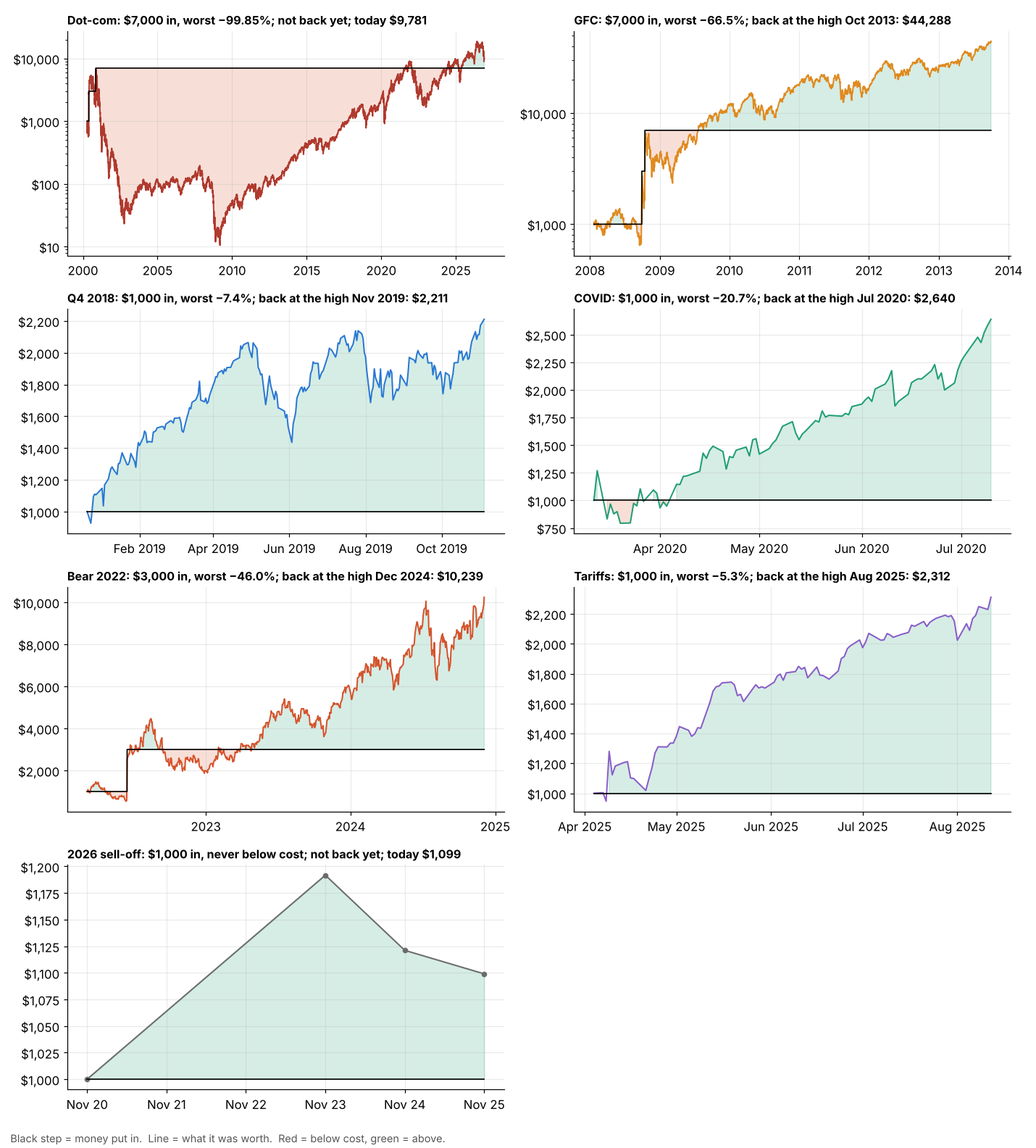
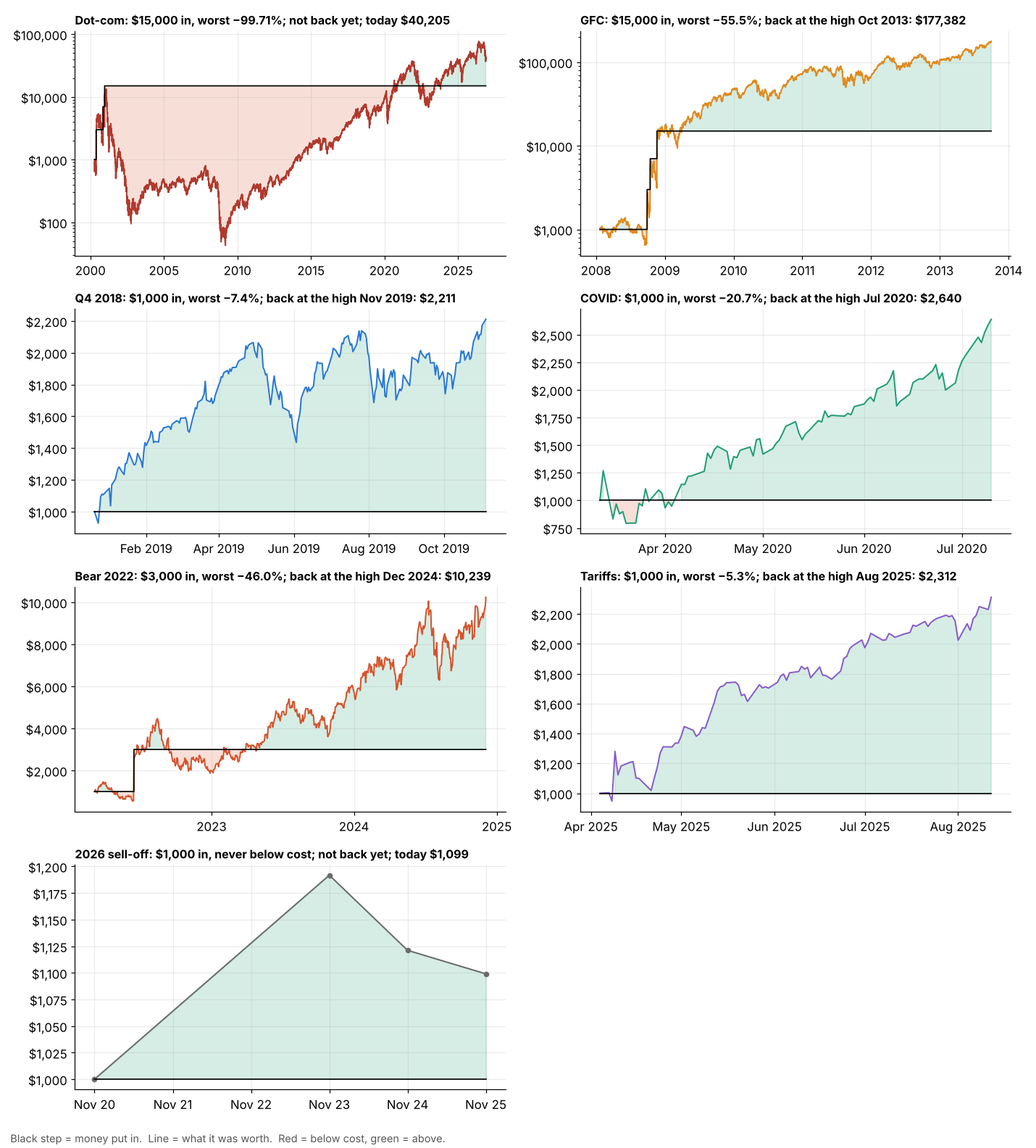
Halvings pages: TQQQ buys up to four times, QQQ up to two
The number of buys is set per fund (BUYS): $1k at -50%, then twice the money at
each new halving. TQQQ adds $8k at -93.75% (up to $15k per sell-off); QQQ, whose
deepest fall was -83%, stops at $1k/$2k. Text, tables and charts follow the count.

Claude-Session: https://claude.ai/code/session_01NtsLeKF1WZbb5xzyTmF1EQ

diff --git a/_code/halving_strategy.py b/_code/halving_strategy.py
@@ -1,8 +1,9 @@
 """Buying the halvings: QQQ and TQQQ detail pages linked from the market snapshot table.
 
-Rule: when a fund closes 50% below its all-time high, buy $1,000. If it halves again
-(-75% from the high), buy $2,000. If it halves a third time (-87.5%), buy $4,000.
-Then hold until the fund closes back at that all-time high (at most $7,000 in).
+Rule: when a fund closes 50% below its all-time high, buy $1,000; each time it halves again,
+buy twice as much ($2,000 at -75%, $4,000 at -87.5%, $8,000 at -93.75%). Then hold until the
+fund closes back at that all-time high. BUYS sets how many halvings each page uses: QQQ never
+fell past -83%, so its page stops at two buys; TQQQ's goes to four.
 
 Writes halving-qqq.md, halving-tqqq.md and their figures in assets/images/halving/.
 Run from the repo root:  python _code/halving_strategy.py
@@ -24,13 +25,32 @@ import matplotlib.ticker as mt  # noqa: E402
 
 ROOT = Path(__file__).resolve().parent.parent
 IMG = ROOT / "assets" / "images" / "halving"
-LEGS = ((0.5, 1000), (0.75, 2000), (0.875, 4000))  # (fall from the high, dollars)
+BUYS = {"QQQ": 2, "TQQQ": 4}  # how many halvings the rule buys on, per fund
 RESET = "2003-01-01"  # a second investor who starts watching after the dot-com bust
-# Rule variants compared on each page (same trigger levels, fewer legs, or all the money at once)
-VARIANTS = [("1 buy", "$1k at -50% only", ((0.5, 1000),)),
-            ("2 buys", "$1k at -50%, $2k at -75%", ((0.5, 1000), (0.75, 2000))),
-            ("3 buys (the rule)", "$1k / $2k / $4k at -50 / -75 / -87.5%", LEGS),
-            ("Lump sum", "all $7k at -50%", ((0.5, 7000),))]
+ORDINAL = {2: "again", 3: "a third time", 4: "a fourth time", 5: "a fifth time"}
+COUNT = {1: "one", 2: "two", 3: "three", 4: "four", 5: "five"}
+FRACTION = {2: "a quarter", 3: "an eighth", 4: "a sixteenth", 5: "a thirty-second"}
+
+
+def legs_for(n):
+    """((fall from the high, dollars), ...): $1k at -50%, then twice the money at each new halving."""
+    return tuple((1 - 0.5 ** k, 1000 * 2 ** (k - 1)) for k in range(1, n + 1))
+
+
+def lvl(f):
+    """-50%, -75%, -87.5%, -93.75%"""
+    return "−" + f"{f * 100:.2f}".rstrip("0").rstrip(".") + "%"
+
+
+def variants_for(n):
+    """Rule variants compared on a page: the same levels with fewer buys, and all the money at -50%."""
+    out = [(f"{k} buy{'s' if k > 1 else ''}" + (" (the rule)" if k == n else ""),
+            " · ".join(f"${a // 1000}k at {lvl(f)}" for f, a in legs_for(k)), legs_for(k))
+           for k in range(1, n + 1)]
+    total = sum(a for _, a in legs_for(n))
+    return out + [("Lump sum", f"all ${total // 1000}k at −50%", ((0.5, total),))]
+
+
 # Approximate yearly average 3-month T-bill rate (%), for the cost of TQQQ's 3x leverage before 2010
 TBILL = {1999: 4.6, 2000: 5.8, 2001: 3.4, 2002: 1.6, 2003: 1.0, 2004: 1.4, 2005: 3.2, 2006: 4.7,
          2007: 4.4, 2008: 1.4, 2009: 0.15, 2010: 0.14, 2011: 0.05, 2012: 0.09, 2013: 0.06, 2014: 0.03,
@@ -41,7 +61,7 @@ FEE = 0.0095  # TQQQ expense ratio
 NAMES = {1999: "Dot-com", 2000: "Dot-com", 2007: "GFC", 2018: "Q4 2018", 2020: "COVID",
          2021: "Bear 2022", 2024: "Tariffs", 2025: "Tariffs"}
 COLORS = ["#b03a2e", "#e08a1e", "#2a78d4", "#1f9e74", "#d6532c", "#8a5cc9", "#6b6b6b", "#3b8ea5"]
-LEG_COLORS = ["#e3a23b", "#d6532c", "#8e1f1f"]
+LEG_COLORS = ["#e3a23b", "#d6532c", "#8e1f1f", "#4a0d0d"]
 
 plt.rcParams.update({"axes.spines.top": False, "axes.spines.right": False, "axes.grid": True,
                      "grid.alpha": .25, "font.size": 11, "text.parse_math": False,
@@ -82,7 +102,7 @@ def synthetic_tqqq(qqq, tqqq):
     return out, spread, gap
 
 
-def run(px, legs=LEGS):
+def run(px, legs):
     """Every episode: from the first close at or below -50% of the all-time high to the first
     close back at that high (or today). Buys at the close of the first day each level is hit."""
     ath = px.cummax()
@@ -124,7 +144,7 @@ def run(px, legs=LEGS):
     return res
 
 
-def episodes(px, legs=LEGS):
+def episodes(px, legs):
     """The dot-com episode for someone watching since 1999, then every episode for someone who
     started in 2003 (a 1999 holder would still be measuring from the March 2000 high)."""
     first = [e for e in run(px, legs) if e["peak_day"] < pd.Timestamp(RESET)]
@@ -158,7 +178,7 @@ def d(day):
 
 
 # ---------------------------------------------------------------- figures
-def fig_history(px, eps, symbol, path, synth_end=None):
+def fig_history(px, eps, symbol, path, legs, synth_end=None):
     fig, ax = plt.subplots(figsize=(13, 6.2))
     if synth_end is not None:
         ax.semilogy(px[:synth_end].index, px[:synth_end], color="#b03a2e", lw=1,
@@ -169,13 +189,13 @@ def fig_history(px, eps, symbol, path, synth_end=None):
     for seg, first in ((px[:RESET], True), (px[RESET:], False)):
         a = seg.cummax()
         ax.semilogy(a.index, a, color="#999", ls="--", lw=.8, label="All-time high" if first else None)
-        for (f, amt), c in zip(LEGS, LEG_COLORS):
+        for (f, amt), c in zip(legs, LEG_COLORS):
             ax.semilogy(a.index, a * (1 - f), color=c, ls=":", lw=.9,
-                        label=f"−{f:.1%} → buy ${amt:,}".replace(".0%", "%") if first else None)
+                        label=f"{lvl(f)} → buy ${amt:,}" if first else None)
     for i, e in enumerate(eps):
         c = COLORS[i % len(COLORS)]
         for day, p, amt, _ in e["buys"]:
-            ax.scatter(day, p, marker="v", s={1000: 70, 2000: 150, 4000: 260}.get(amt, 120), color=c,
+            ax.scatter(day, p, marker="v", s={1000: 60, 2000: 120, 4000: 220, 8000: 340}.get(amt, 120), color=c,
                        edgecolor="k", lw=.6, zorder=6)
         if e["recovered"]:
             ax.scatter(e["end"], e["peak"], marker="*", s=220, color=c, edgecolor="k", lw=.6, zorder=6)
@@ -186,7 +206,8 @@ def fig_history(px, eps, symbol, path, synth_end=None):
     ax.yaxis.set_minor_formatter(mt.NullFormatter())
     ax.set_ylabel("Price (log scale)" if synth_end is None else "Value, Mar 1999 = 1 (log scale)")
     ax.legend(frameon=False, fontsize=9.5, loc="lower right", ncol=2)
-    ax.set_title("▼ buys (size = $1k / $2k / $4k)   ★ back at the all-time high", loc="left",
+    sizes = " / ".join(f"${a // 1000}k" for _, a in legs)
+    ax.set_title(f"▼ buys (size = {sizes})   ★ back at the all-time high", loc="left",
                  fontsize=12, color="#444")
     fig.tight_layout()
     fig.savefig(path, dpi=110)
@@ -232,20 +253,20 @@ def fig_episodes(eps, path):
     plt.close(fig)
 
 
-def fig_compare(cmp, path):
+def fig_compare(cmp, variants, path):
     labels = list(cmp)
     fig, (a1, a2) = plt.subplots(1, 2, figsize=(13, 4.6))
     x = np.arange(len(labels))
-    w = .8 / len(VARIANTS)
-    shades = ["#9bb7d9", "#e3a23b", "#d6532c", "#555"]
-    for k, (vname, _, _) in enumerate(VARIANTS):
+    w = .8 / len(variants)
+    shades = ["#9bb7d9", "#e3a23b", "#d6532c", "#8e1f1f"][:len(variants) - 1] + ["#555"]
+    for k, (vname, _, _) in enumerate(variants):
         m = [cmp[l][vname]["multiple"] for l in labels]
         dd = [-cmp[l][vname]["worst"] for l in labels]
         for ax, vals, fmt in ((a1, m, "×{:.2f}"), (a2, dd, "−{:.0%}")):
-            xs = x + (k - (len(VARIANTS) - 1) / 2) * w
+            xs = x + (k - (len(variants) - 1) / 2) * w
             ax.bar(xs, vals, w, color=shades[k], edgecolor="k", lw=.4, label=vname)
             for xx, v in zip(xs, vals):
-                ax.text(xx, v, fmt.format(v), ha="center", va="bottom", fontsize=8)
+                ax.text(xx, v, fmt.format(v), ha="center", va="bottom", fontsize=7.5 if len(variants) > 4 else 8)
     a1.axhline(1, color="k", lw=.8)
     a1.set_title("Value ÷ money put in (at the old high, or today)", loc="left", fontweight="bold")
     a2.set_title("Worst fall of the position below cost", loc="left", fontweight="bold")
@@ -310,10 +331,10 @@ def episode_table(eps):
     return f'<div class="scroll"><table><thead>{head}</thead><tbody>{"".join(rows)}</tbody></table></div>'
 
 
-def compare_table(cmp):
+def compare_table(cmp, variants):
     head = "<tr><th>Rule</th>" + "".join(f"<th>{l}</th>" for l in cmp) + "</tr>"
     rows = []
-    for vname, desc, _ in VARIANTS:
+    for vname, desc, _ in variants:
         cells = "".join(
             f"<td>{money(c['invested'])} → {money(c['value'])} "
             f"<span class={cls(c['multiple'] - 1)}>(×{c['multiple']:.2f})</span><br>"
@@ -322,10 +343,10 @@ def compare_table(cmp):
     return f'<div class="scroll"><table><thead>{head}</thead><tbody>{"".join(rows)}</tbody></table></div>'
 
 
-def now_box(symbol, raw, adj):
+def now_box(symbol, raw, legs):
     high, high_day, last = float(raw.max()), raw.idxmax(), float(raw.iloc[-1])
-    levels = " · ".join(f"−{f:.1%}".replace(".0%", "%") + f" = <b>${high * (1 - f):,.2f}</b> (${a:,})" for f, a in LEGS)
-    hit = [f"−{f:.1%}".replace(".0%", "%") for f, _ in LEGS if raw[high_day:].min() <= high * (1 - f)]
+    levels = " · ".join(f"{lvl(f)} = <b>${high * (1 - f):,.2f}</b> (${a:,})" for f, a in legs)
+    hit = [lvl(f) for f, _ in legs if raw[high_day:].min() <= high * (1 - f)]
     status = f"Already hit since the high: {', '.join(hit)}." if hit else "No buy level has been hit since this high."
     return (f'<div class="now"><b>Where {symbol} is now</b> ({raw.index[-1]:%b %-d, %Y}): ${last:,.2f}, '
             f"{pct(last / high - 1)} from its closing high of ${high:,.2f} ({high_day:%b %-d, %Y}).<br>"
@@ -333,10 +354,14 @@ def now_box(symbol, raw, adj):
 
 
 def build(symbol, px, raw, synth=None):
-    eps = episodes(px)
+    n = BUYS[symbol]
+    legs, variants = legs_for(n), variants_for(n)
+    total = sum(a for _, a in legs)
+    rule, lump = variants[n - 1][0], variants[-1][0]
+    eps = episodes(px, legs)
     slug = symbol.lower()
     IMG.mkdir(parents=True, exist_ok=True)
-    fig_history(px, eps, symbol, IMG / f"{slug}-history.png", synth_end=None if synth is None else synth["end"])
+    fig_history(px, eps, symbol, IMG / f"{slug}-history.png", legs, synth_end=None if synth is None else synth["end"])
     fig_episodes(eps, IMG / f"{slug}-episodes.png")
 
     # rule variants, on the episodes where the rule bought more than once (or the dot-com one)
@@ -348,20 +373,22 @@ def build(symbol, px, raw, synth=None):
         label = name(e)
         cmp[label] = {}
         src = px if e["peak_day"] < pd.Timestamp(RESET) else px[RESET:]
-        for vname, _, legs in VARIANTS:
-            v = [x for x in run(src, legs) if x["peak_day"] == e["peak_day"]][0]
-            cmp[label][vname] = dict(invested=v["invested"], value=v["end_value"],
+        for vname, _, vlegs in variants:
+            v = [x for x in run(src, vlegs) if x["peak_day"] == e["peak_day"]][0]
+            cmp[label][vname] = dict(invested=v["invested"], value=v["end_value"], buys=len(v["buys"]),
                                      multiple=v["end_value"] / v["invested"], worst=v["worst"])
-    fig_compare(cmp, IMG / f"{slug}-compare.png")
+    fig_compare(cmp, variants, IMG / f"{slug}-compare.png")
 
     done = [e for e in eps if e["recovered"]]
     open_ = [e for e in eps if not e["recovered"]]
     longest = max(eps, key=lambda e: years(e["first"], e["end"]))
     worst = min(eps, key=lambda e: e["worst"])
-    n_legs = {k: sum(len(e["buys"]) >= k for e in eps) for k in (1, 2, 3)}
+    nth = {2: "second", 3: "third", 4: "fourth", 5: "fifth"}
+    later = [f"the {nth[k]} ({money(a)}, at {lvl(f)}) in **{sum(len(e['buys']) >= k for e in eps)}**"
+             for k, (f, a) in enumerate(legs[1:], start=2)]
     bullets = [
-        f"The rule fired in **{len(eps)}** sell-offs: the first buy ({money(1000)}) every time, the second "
-        f"({money(2000)}, at −75%) in **{n_legs[2]}**, and the third ({money(4000)}, at −87.5%) in **{n_legs[3]}**.",
+        f"The rule fired in **{len(eps)}** sell-offs: the first buy ({money(1000)}) every time, "
+        + (", ".join(later[:-1]) + ", and " + later[-1] if len(later) > 1 else "and " + later[0]) + ".",
     ]
     if done:
         mult = [e["end_value"] / e["invested"] for e in done]
@@ -380,15 +407,16 @@ def build(symbol, px, raw, synth=None):
             f"{money(longest['invested'])} put in, and it spent {longest['underwater']:.0%} of those days below cost.")
     else:
         bullets.append(f"The longest wait was **{name(longest)}**: {years(longest['first'], longest['end']):.1f} years.")
-    multi = [l for l in cmp if cmp[l]["3 buys (the rule)"]["invested"] > 1000]
+    multi = [l for l in cmp if cmp[l][rule]["buys"] > 1]
     if multi:
-        l = max(multi, key=lambda l: cmp[l]["3 buys (the rule)"]["multiple"] - cmp[l]["Lump sum"]["multiple"])
-        r3, ls = cmp[l]["3 buys (the rule)"], cmp[l]["Lump sum"]
+        l = max(multi, key=lambda l: cmp[l][rule]["multiple"] - cmp[l][lump]["multiple"])
+        r, ls = cmp[l][rule], cmp[l][lump]
+        fr = [FRACTION[k] for k in range(2, r["buys"] + 1)]
+        fr = fr[0] if len(fr) == 1 else ", ".join(fr[:-1]) + " and " + fr[-1]
         bullets.append(
-            f"Doubling down helps most when the fall keeps going. In {l}, the three-step rule turned "
-            f"{money(r3['invested'])} into ×{r3['multiple']:.2f}, against ×{ls['multiple']:.2f} for putting "
-            f"all {money(7000)} in at −50%: the later, larger buys come in at a quarter"
-            f"{' and an eighth' if r3['invested'] >= 7000 else ''} of the high.")
+            f"Doubling down helps most when the fall keeps going. In {l}, the {COUNT[n]}-step rule turned "
+            f"{money(r['invested'])} into ×{r['multiple']:.2f}, against ×{ls['multiple']:.2f} for putting "
+            f"all {money(total)} in at −50%: the later, larger buys come in at {fr} of the high.")
     if open_ and open_[-1]["first"].year >= datetime.now().year - 1 and open_[-1] is not longest:
         e = open_[-1]
         bullets.append(f"An episode is open now: the first buy was on {e['first']:%b %-d, %Y}; see the box above for the next levels.")
@@ -417,10 +445,10 @@ permalink: /halving-{slug}/
 What happens if you buy {symbol} only after it has been cut in half, and buy more each time it halves again?
 
 <div class="rule"><b>The rule.</b> When {symbol} closes 50% below its all-time high, buy <b>$1,000</b>.
-If it halves again (−75% from the high), buy <b>$2,000</b>. If it halves a third time (−87.5%), buy <b>$4,000</b>.
-Hold until {symbol} closes back at that high. At most $7,000 goes in per sell-off.</div>
+{" ".join(f"If it halves {ORDINAL[k]} ({lvl(f)} from the high), buy <b>{money(a)}</b>." for k, (f, a) in enumerate(legs[1:], start=2))}
+Hold until {symbol} closes back at that high. At most {money(total)} goes in per sell-off.</div>
 
-{now_box(symbol, raw, px)}
+{now_box(symbol, raw, legs)}
 
 ## Key findings
 
@@ -444,11 +472,11 @@ started in 2003, after the bust (a 1999 holder still measures from the March 200
 
 ## Is doubling down better than the alternatives?
 
-Same trigger levels, different amounts: only the first buy, the first two, all three, or all $7,000 at once at −50%.
+Same trigger levels, different amounts: {", ".join(("only the first buy" if k == 1 else f"the first {COUNT[k]}") for k in range(1, n))}, {"both" if n == 2 else "all " + COUNT[n]}, or all {money(total)} at once at −50%.
 
 ![Rule variants compared](/assets/images/halving/{slug}-compare.png)
 
-{compare_table(cmp)}
+{compare_table(cmp, variants)}
 
 ## How this was computed
 {synth_txt}

diff --git a/halving-tqqq.md b/halving-tqqq.md
@@ -3,7 +3,7 @@ layout: page
 title: "TQQQ: Buying the Halvings"
 permalink: /halving-tqqq/
 ---
-<!-- Written by _code/halving_strategy.py; do not edit by hand. Last run 2026-11-27 14:06 UTC. -->
+<!-- Written by _code/halving_strategy.py; do not edit by hand. Last run 2026-11-27 14:20 UTC. -->
 <div class="hv" markdown="1">
 <style>
 .hv table { display: table !important; overflow: visible !important; width: auto !important; max-width: 100%;
@@ -27,23 +27,23 @@ permalink: /halving-tqqq/
 What happens if you buy TQQQ only after it has been cut in half, and buy more each time it halves again?
 
 <div class="rule"><b>The rule.</b> When TQQQ closes 50% below its all-time high, buy <b>$1,000</b>.
-If it halves again (−75% from the high), buy <b>$2,000</b>. If it halves a third time (−87.5%), buy <b>$4,000</b>.
-Hold until TQQQ closes back at that high. At most $7,000 goes in per sell-off.</div>
+If it halves again (−75% from the high), buy <b>$2,000</b>. If it halves a third time (−87.5% from the high), buy <b>$4,000</b>. If it halves a fourth time (−93.75% from the high), buy <b>$8,000</b>.
+Hold until TQQQ closes back at that high. At most $15,000 goes in per sell-off.</div>
 
-<div class="now"><b>Where TQQQ is now</b> (Nov 25, 2026): $45.28, −48.1% from its closing high of $87.22 (Jun 2, 2026).<br>Buy levels from that high: −50% = <b>$43.61</b> ($1,000) · −75% = <b>$21.81</b> ($2,000) · −87.5% = <b>$10.90</b> ($4,000). Already hit since the high: −50%.</div>
+<div class="now"><b>Where TQQQ is now</b> (Nov 25, 2026): $45.28, −48.1% from its closing high of $87.22 (Jun 2, 2026).<br>Buy levels from that high: −50% = <b>$43.61</b> ($1,000) · −75% = <b>$21.81</b> ($2,000) · −87.5% = <b>$10.90</b> ($4,000) · −93.75% = <b>$5.45</b> ($8,000). Already hit since the high: −50%.</div>
 
 ## Key findings
 
-- The rule fired in **7** sell-offs: the first buy ($1,000) every time, the second ($2,000, at −75%) in **3**, and the third ($4,000, at −87.5%) in **2**.
-- In the **5** that ended, the money came back as ×2.21 to ×6.33 by the day TQQQ regained its old high, which took 0.3 to 5.7 years from the first buy (median 0.9).
-- The worst ride was **Dot-com**: $7,000 put in fell to $10 (−99.85%) in March 2009.
-- **Dot-com** has still not reached its old high, 26.6 years after the first buy: the position is worth $9,781 on $7,000 put in, and it spent 89% of those days below cost.
-- Doubling down helps most when the fall keeps going. In GFC, the three-step rule turned $7,000 into ×6.33, against ×2.10 for putting all $7,000 in at −50%: the later, larger buys come in at a quarter and an eighth of the high.
+- The rule fired in **7** sell-offs: the first buy ($1,000) every time, the second ($2,000, at −75%) in **3**, the third ($4,000, at −87.5%) in **2**, and the fourth ($8,000, at −93.75%) in **2**.
+- In the **5** that ended, the money came back as ×2.21 to ×11.83 by the day TQQQ regained its old high, which took 0.3 to 5.7 years from the first buy (median 0.9).
+- The worst ride was **Dot-com**: $15,000 put in fell to $43 (−99.71%) in March 2009.
+- **Dot-com** has still not reached its old high, 26.6 years after the first buy: the position is worth $40,205 on $15,000 put in, and it spent 80% of those days below cost.
+- Doubling down helps most when the fall keeps going. In GFC, the four-step rule turned $15,000 into ×11.83, against ×2.10 for putting all $15,000 in at −50%: the later, larger buys come in at a quarter, an eighth and a sixteenth of the high.
 - An episode is open now: the first buy was on Nov 20, 2026; see the box above for the next levels.
 
 ## Every sell-off that triggered the rule
 
-<div class="scroll"><table><thead><tr><th>Sell-off</th><th>Low</th><th class=wrap>Buys</th><th>Put in</th><th>Worst</th><th>Above cost<br>for good</th><th>Back at high<br><small>years after 1st buy</small></th><th>Worth then</th><th>Held to<br>today</th></tr></thead><tbody><tr><th>Dot-com<br><small>high Mar 2000</small></th><td class=dn>−99.98%</td><td>$1k Apr 2000<br>$2k May 2000<br>$4k Nov 2000</td><td>$7,000</td><td class=dn>−99.85%<br><small>$10 · Mar 2009</small></td><td>above now</td><td>not yet<br><small>26.6+ yrs</small></td><td>$9,781<br><small class=up>×1.40 today</small></td><td>$9,781</td></tr><tr><th>GFC<br><small>high Oct 2007</small></th><td class=dn>−94.6%</td><td>$1k Jan 2008<br>$2k Sep 2008<br>$4k Oct 2008</td><td>$7,000</td><td class=dn>−66.5%<br><small>$2,342 · Mar 2009</small></td><td>Jul 2009</td><td>Oct 2013<br><small>5.7 yrs</small></td><td>$44,288<br><small class=up>×6.33</small></td><td>$2,186,893</td></tr><tr><th>Q4 2018<br><small>high Aug 2018</small></th><td class=dn>−58.1%</td><td>$1k Dec 2018</td><td>$1,000</td><td class=dn>−7.4%<br><small>$926 · Dec 2018</small></td><td>Dec 2018</td><td>Nov 2019<br><small>0.9 yrs</small></td><td>$2,211<br><small class=up>×2.21</small></td><td>$11,629</td></tr><tr><th>COVID<br><small>high Feb 2020</small></th><td class=dn>−69.9%</td><td>$1k Mar 2020</td><td>$1,000</td><td class=dn>−20.7%<br><small>$793 · Mar 2020</small></td><td>Apr 2020</td><td>Jul 2020<br><small>0.3 yrs</small></td><td>$2,640<br><small class=up>×2.64</small></td><td>$8,509</td></tr><tr><th>Bear 2022<br><small>high Nov 2021</small></th><td class=dn>−81.7%</td><td>$1k Mar 2022<br>$2k Jun 2022</td><td>$3,000</td><td class=dn>−46.0%<br><small>$1,621 · Jun 2022</small></td><td>Apr 2023</td><td>Dec 2024<br><small>2.7 yrs</small></td><td>$10,239<br><small class=up>×3.41</small></td><td>$10,940</td></tr><tr><th>Tariffs<br><small>high Dec 2024</small></th><td class=dn>−58.0%</td><td>$1k Apr 2025</td><td>$1,000</td><td class=dn>−5.3%<br><small>$947 · Apr 2025</small></td><td>Apr 2025</td><td>Aug 2025<br><small>0.4 yrs</small></td><td>$2,312<br><small class=up>×2.31</small></td><td>$2,229</td></tr><tr><th>2026 sell-off<br><small>high Jun 2026</small></th><td class=dn>−52.6%</td><td>$1k Nov 2026</td><td>$1,000</td><td>never below cost</td><td>above now</td><td>not yet<br><small>0.0+ yrs</small></td><td>$1,099<br><small class=up>×1.10 today</small></td><td>$1,099</td></tr></tbody></table></div>
+<div class="scroll"><table><thead><tr><th>Sell-off</th><th>Low</th><th class=wrap>Buys</th><th>Put in</th><th>Worst</th><th>Above cost<br>for good</th><th>Back at high<br><small>years after 1st buy</small></th><th>Worth then</th><th>Held to<br>today</th></tr></thead><tbody><tr><th>Dot-com<br><small>high Mar 2000</small></th><td class=dn>−99.98%</td><td>$1k Apr 2000<br>$2k May 2000<br>$4k Nov 2000<br>$8k Dec 2000</td><td>$15,000</td><td class=dn>−99.71%<br><small>$43 · Mar 2009</small></td><td>above now</td><td>not yet<br><small>26.6+ yrs</small></td><td>$40,205<br><small class=up>×2.68 today</small></td><td>$40,205</td></tr><tr><th>GFC<br><small>high Oct 2007</small></th><td class=dn>−94.6%</td><td>$1k Jan 2008<br>$2k Sep 2008<br>$4k Oct 2008<br>$8k Nov 2008</td><td>$15,000</td><td class=dn>−55.5%<br><small>$6,675 · Nov 2008</small></td><td>Apr 2009</td><td>Oct 2013<br><small>5.7 yrs</small></td><td>$177,382<br><small class=up>×11.83</small></td><td>$8,758,896</td></tr><tr><th>Q4 2018<br><small>high Aug 2018</small></th><td class=dn>−58.1%</td><td>$1k Dec 2018</td><td>$1,000</td><td class=dn>−7.4%<br><small>$926 · Dec 2018</small></td><td>Dec 2018</td><td>Nov 2019<br><small>0.9 yrs</small></td><td>$2,211<br><small class=up>×2.21</small></td><td>$11,629</td></tr><tr><th>COVID<br><small>high Feb 2020</small></th><td class=dn>−69.9%</td><td>$1k Mar 2020</td><td>$1,000</td><td class=dn>−20.7%<br><small>$793 · Mar 2020</small></td><td>Apr 2020</td><td>Jul 2020<br><small>0.3 yrs</small></td><td>$2,640<br><small class=up>×2.64</small></td><td>$8,509</td></tr><tr><th>Bear 2022<br><small>high Nov 2021</small></th><td class=dn>−81.7%</td><td>$1k Mar 2022<br>$2k Jun 2022</td><td>$3,000</td><td class=dn>−46.0%<br><small>$1,621 · Jun 2022</small></td><td>Apr 2023</td><td>Dec 2024<br><small>2.7 yrs</small></td><td>$10,239<br><small class=up>×3.41</small></td><td>$10,940</td></tr><tr><th>Tariffs<br><small>high Dec 2024</small></th><td class=dn>−58.0%</td><td>$1k Apr 2025</td><td>$1,000</td><td class=dn>−5.3%<br><small>$947 · Apr 2025</small></td><td>Apr 2025</td><td>Aug 2025<br><small>0.4 yrs</small></td><td>$2,312<br><small class=up>×2.31</small></td><td>$2,229</td></tr><tr><th>2026 sell-off<br><small>high Jun 2026</small></th><td class=dn>−52.6%</td><td>$1k Nov 2026</td><td>$1,000</td><td>never below cost</td><td>above now</td><td>not yet<br><small>0.0+ yrs</small></td><td>$1,099<br><small class=up>×1.10 today</small></td><td>$1,099</td></tr></tbody></table></div>
 <p class="note">Worst = lowest value of the position against the money in at that point. Above cost for good = the day after the last close below cost.
 Back at high = first close at or above the all-time high the fall started from. Worth then = the position on that day (or today, if not back yet).
 If held to today = the same shares valued at the last close. The dot-com row is for someone watching since 1999; every later row is for someone who
@@ -59,11 +59,11 @@ started in 2003, after the bust (a 1999 holder still measures from the March 200
 
 ## Is doubling down better than the alternatives?
 
-Same trigger levels, different amounts: only the first buy, the first two, all three, or all $7,000 at once at −50%.
+Same trigger levels, different amounts: only the first buy, the first two, the first three, all four, or all $15,000 at once at −50%.
 
 ![Rule variants compared](/assets/images/halving/tqqq-compare.png)
 
-<div class="scroll"><table><thead><tr><th>Rule</th><th>Dot-com</th><th>GFC</th><th>Bear 2022</th></tr></thead><tbody><tr><th>1 buy<br><small>$1k at -50% only</small></th><td>$1,000 → $458 <span class=dn>(×0.46)</span><br><small>worst −99.95%</small></td><td>$1,000 → $2,100 <span class=up>(×2.10)</span><br><small>worst −88.9%</small></td><td>$1,000 → $2,086 <span class=up>(×2.09)</span><br><small>worst −62.0%</small></td></tr><tr><th>2 buys<br><small>$1k at -50%, $2k at -75%</small></th><td>$3,000 → $2,563 <span class=dn>(×0.85)</span><br><small>worst −99.91%</small></td><td>$3,000 → $10,219 <span class=up>(×3.41)</span><br><small>worst −82.0%</small></td><td>$3,000 → $10,239 <span class=up>(×3.41)</span><br><small>worst −46.0%</small></td></tr><tr><th>3 buys (the rule)<br><small>$1k / $2k / $4k at -50 / -75 / -87.5%</small></th><td>$7,000 → $9,781 <span class=up>(×1.40)</span><br><small>worst −99.85%</small></td><td>$7,000 → $44,288 <span class=up>(×6.33)</span><br><small>worst −66.5%</small></td><td>$3,000 → $10,239 <span class=up>(×3.41)</span><br><small>worst −46.0%</small></td></tr><tr><th>Lump sum<br><small>all $7k at -50%</small></th><td>$7,000 → $3,204 <span class=dn>(×0.46)</span><br><small>worst −99.95%</small></td><td>$7,000 → $14,699 <span class=up>(×2.10)</span><br><small>worst −88.9%</small></td><td>$7,000 → $14,602 <span class=up>(×2.09)</span><br><small>worst −62.0%</small></td></tr></tbody></table></div>
+<div class="scroll"><table><thead><tr><th>Rule</th><th>Dot-com</th><th>GFC</th><th>Bear 2022</th></tr></thead><tbody><tr><th>1 buy<br><small>$1k at −50%</small></th><td>$1,000 → $458 <span class=dn>(×0.46)</span><br><small>worst −99.95%</small></td><td>$1,000 → $2,100 <span class=up>(×2.10)</span><br><small>worst −88.9%</small></td><td>$1,000 → $2,086 <span class=up>(×2.09)</span><br><small>worst −62.0%</small></td></tr><tr><th>2 buys<br><small>$1k at −50% · $2k at −75%</small></th><td>$3,000 → $2,563 <span class=dn>(×0.85)</span><br><small>worst −99.91%</small></td><td>$3,000 → $10,219 <span class=up>(×3.41)</span><br><small>worst −82.0%</small></td><td>$3,000 → $10,239 <span class=up>(×3.41)</span><br><small>worst −46.0%</small></td></tr><tr><th>3 buys<br><small>$1k at −50% · $2k at −75% · $4k at −87.5%</small></th><td>$7,000 → $9,781 <span class=up>(×1.40)</span><br><small>worst −99.85%</small></td><td>$7,000 → $44,288 <span class=up>(×6.33)</span><br><small>worst −66.5%</small></td><td>$3,000 → $10,239 <span class=up>(×3.41)</span><br><small>worst −46.0%</small></td></tr><tr><th>4 buys (the rule)<br><small>$1k at −50% · $2k at −75% · $4k at −87.5% · $8k at −93.75%</small></th><td>$15,000 → $40,205 <span class=up>(×2.68)</span><br><small>worst −99.71%</small></td><td>$15,000 → $177,382 <span class=up>(×11.83)</span><br><small>worst −55.5%</small></td><td>$3,000 → $10,239 <span class=up>(×3.41)</span><br><small>worst −46.0%</small></td></tr><tr><th>Lump sum<br><small>all $15k at −50%</small></th><td>$15,000 → $6,866 <span class=dn>(×0.46)</span><br><small>worst −99.95%</small></td><td>$15,000 → $31,497 <span class=up>(×2.10)</span><br><small>worst −88.9%</small></td><td>$15,000 → $31,290 <span class=up>(×2.09)</span><br><small>worst −62.0%</small></td></tr></tbody></table></div>
 
 ## How this was computed
 

diff --git a/halving-qqq.md b/halving-qqq.md
@@ -3,7 +3,7 @@ layout: page
 title: "QQQ: Buying the Halvings"
 permalink: /halving-qqq/
 ---
-<!-- Written by _code/halving_strategy.py; do not edit by hand. Last run 2026-11-27 14:06 UTC. -->
+<!-- Written by _code/halving_strategy.py; do not edit by hand. Last run 2026-11-27 14:20 UTC. -->
 <div class="hv" markdown="1">
 <style>
 .hv table { display: table !important; overflow: visible !important; width: auto !important; max-width: 100%;
@@ -27,18 +27,18 @@ permalink: /halving-qqq/
 What happens if you buy QQQ only after it has been cut in half, and buy more each time it halves again?
 
 <div class="rule"><b>The rule.</b> When QQQ closes 50% below its all-time high, buy <b>$1,000</b>.
-If it halves again (−75% from the high), buy <b>$2,000</b>. If it halves a third time (−87.5%), buy <b>$4,000</b>.
-Hold until QQQ closes back at that high. At most $7,000 goes in per sell-off.</div>
+If it halves again (−75% from the high), buy <b>$2,000</b>.
+Hold until QQQ closes back at that high. At most $3,000 goes in per sell-off.</div>
 
-<div class="now"><b>Where QQQ is now</b> (Nov 25, 2026): $633.93, −16.6% from its closing high of $759.66 (Oct 6, 2026).<br>Buy levels from that high: −50% = <b>$379.83</b> ($1,000) · −75% = <b>$189.91</b> ($2,000) · −87.5% = <b>$94.96</b> ($4,000). No buy level has been hit since this high.</div>
+<div class="now"><b>Where QQQ is now</b> (Nov 25, 2026): $633.93, −16.6% from its closing high of $759.66 (Oct 6, 2026).<br>Buy levels from that high: −50% = <b>$379.83</b> ($1,000) · −75% = <b>$189.91</b> ($2,000). No buy level has been hit since this high.</div>
 
 ## Key findings
 
-- The rule fired in **2** sell-offs: the first buy ($1,000) every time, the second ($2,000, at −75%) in **1**, and the third ($4,000, at −87.5%) in **0**.
+- The rule fired in **2** sell-offs: the first buy ($1,000) every time, and the second ($2,000, at −75%) in **1**.
 - In the **2** that ended, the money came back as ×2.04 to ×3.43 by the day QQQ regained its old high, which took 2.1 to 14.2 years from the first buy (median 8.1).
 - The worst ride was **Dot-com**: $3,000 put in fell to $1,613 (−46.2%) in September 2001.
 - The longest wait was **Dot-com**: 14.2 years.
-- Doubling down helps most when the fall keeps going. In Dot-com, the three-step rule turned $3,000 into ×3.43, against ×2.12 for putting all $7,000 in at −50%: the later, larger buys come in at a quarter of the high.
+- Doubling down helps most when the fall keeps going. In Dot-com, the two-step rule turned $3,000 into ×3.43, against ×2.12 for putting all $3,000 in at −50%: the later, larger buys come in at a quarter of the high.
 
 ## Every sell-off that triggered the rule
 
@@ -58,11 +58,11 @@ started in 2003, after the bust (a 1999 holder still measures from the March 200
 
 ## Is doubling down better than the alternatives?
 
-Same trigger levels, different amounts: only the first buy, the first two, all three, or all $7,000 at once at −50%.
+Same trigger levels, different amounts: only the first buy, both, or all $3,000 at once at −50%.
 
 ![Rule variants compared](/assets/images/halving/qqq-compare.png)
 
-<div class="scroll"><table><thead><tr><th>Rule</th><th>Dot-com</th><th>GFC</th></tr></thead><tbody><tr><th>1 buy<br><small>$1k at -50% only</small></th><td>$1,000 → $2,120 <span class=up>(×2.12)</span><br><small>worst −64.0%</small></td><td>$1,000 → $2,042 <span class=up>(×2.04)</span><br><small>worst −4.8%</small></td></tr><tr><th>2 buys<br><small>$1k at -50%, $2k at -75%</small></th><td>$3,000 → $10,280 <span class=up>(×3.43)</span><br><small>worst −46.2%</small></td><td>$1,000 → $2,042 <span class=up>(×2.04)</span><br><small>worst −4.8%</small></td></tr><tr><th>3 buys (the rule)<br><small>$1k / $2k / $4k at -50 / -75 / -87.5%</small></th><td>$3,000 → $10,280 <span class=up>(×3.43)</span><br><small>worst −46.2%</small></td><td>$1,000 → $2,042 <span class=up>(×2.04)</span><br><small>worst −4.8%</small></td></tr><tr><th>Lump sum<br><small>all $7k at -50%</small></th><td>$7,000 → $14,843 <span class=up>(×2.12)</span><br><small>worst −64.0%</small></td><td>$7,000 → $14,296 <span class=up>(×2.04)</span><br><small>worst −4.8%</small></td></tr></tbody></table></div>
+<div class="scroll"><table><thead><tr><th>Rule</th><th>Dot-com</th><th>GFC</th></tr></thead><tbody><tr><th>1 buy<br><small>$1k at −50%</small></th><td>$1,000 → $2,120 <span class=up>(×2.12)</span><br><small>worst −64.0%</small></td><td>$1,000 → $2,042 <span class=up>(×2.04)</span><br><small>worst −4.8%</small></td></tr><tr><th>2 buys (the rule)<br><small>$1k at −50% · $2k at −75%</small></th><td>$3,000 → $10,280 <span class=up>(×3.43)</span><br><small>worst −46.2%</small></td><td>$1,000 → $2,042 <span class=up>(×2.04)</span><br><small>worst −4.8%</small></td></tr><tr><th>Lump sum<br><small>all $3k at −50%</small></th><td>$3,000 → $6,361 <span class=up>(×2.12)</span><br><small>worst −64.0%</small></td><td>$3,000 → $6,127 <span class=up>(×2.04)</span><br><small>worst −4.8%</small></td></tr></tbody></table></div>
 
 ## How this was computed
 
